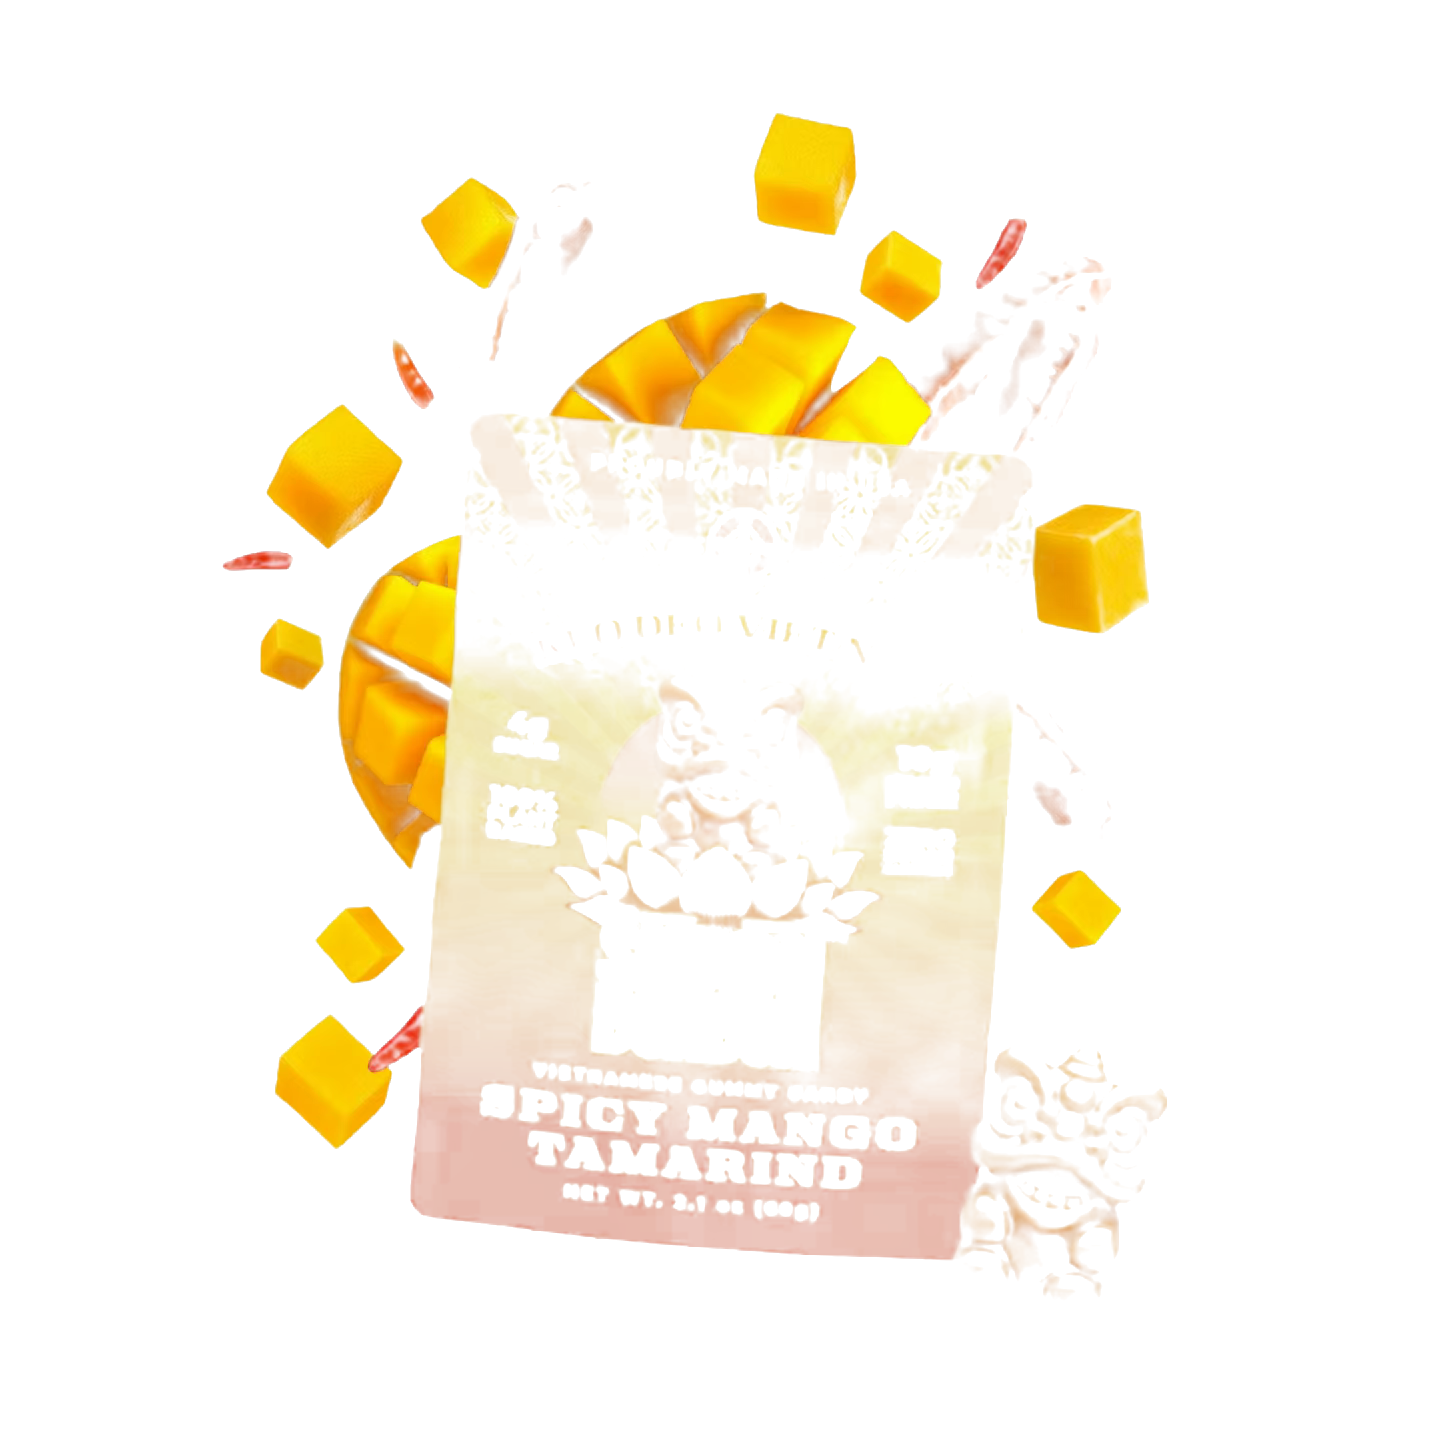
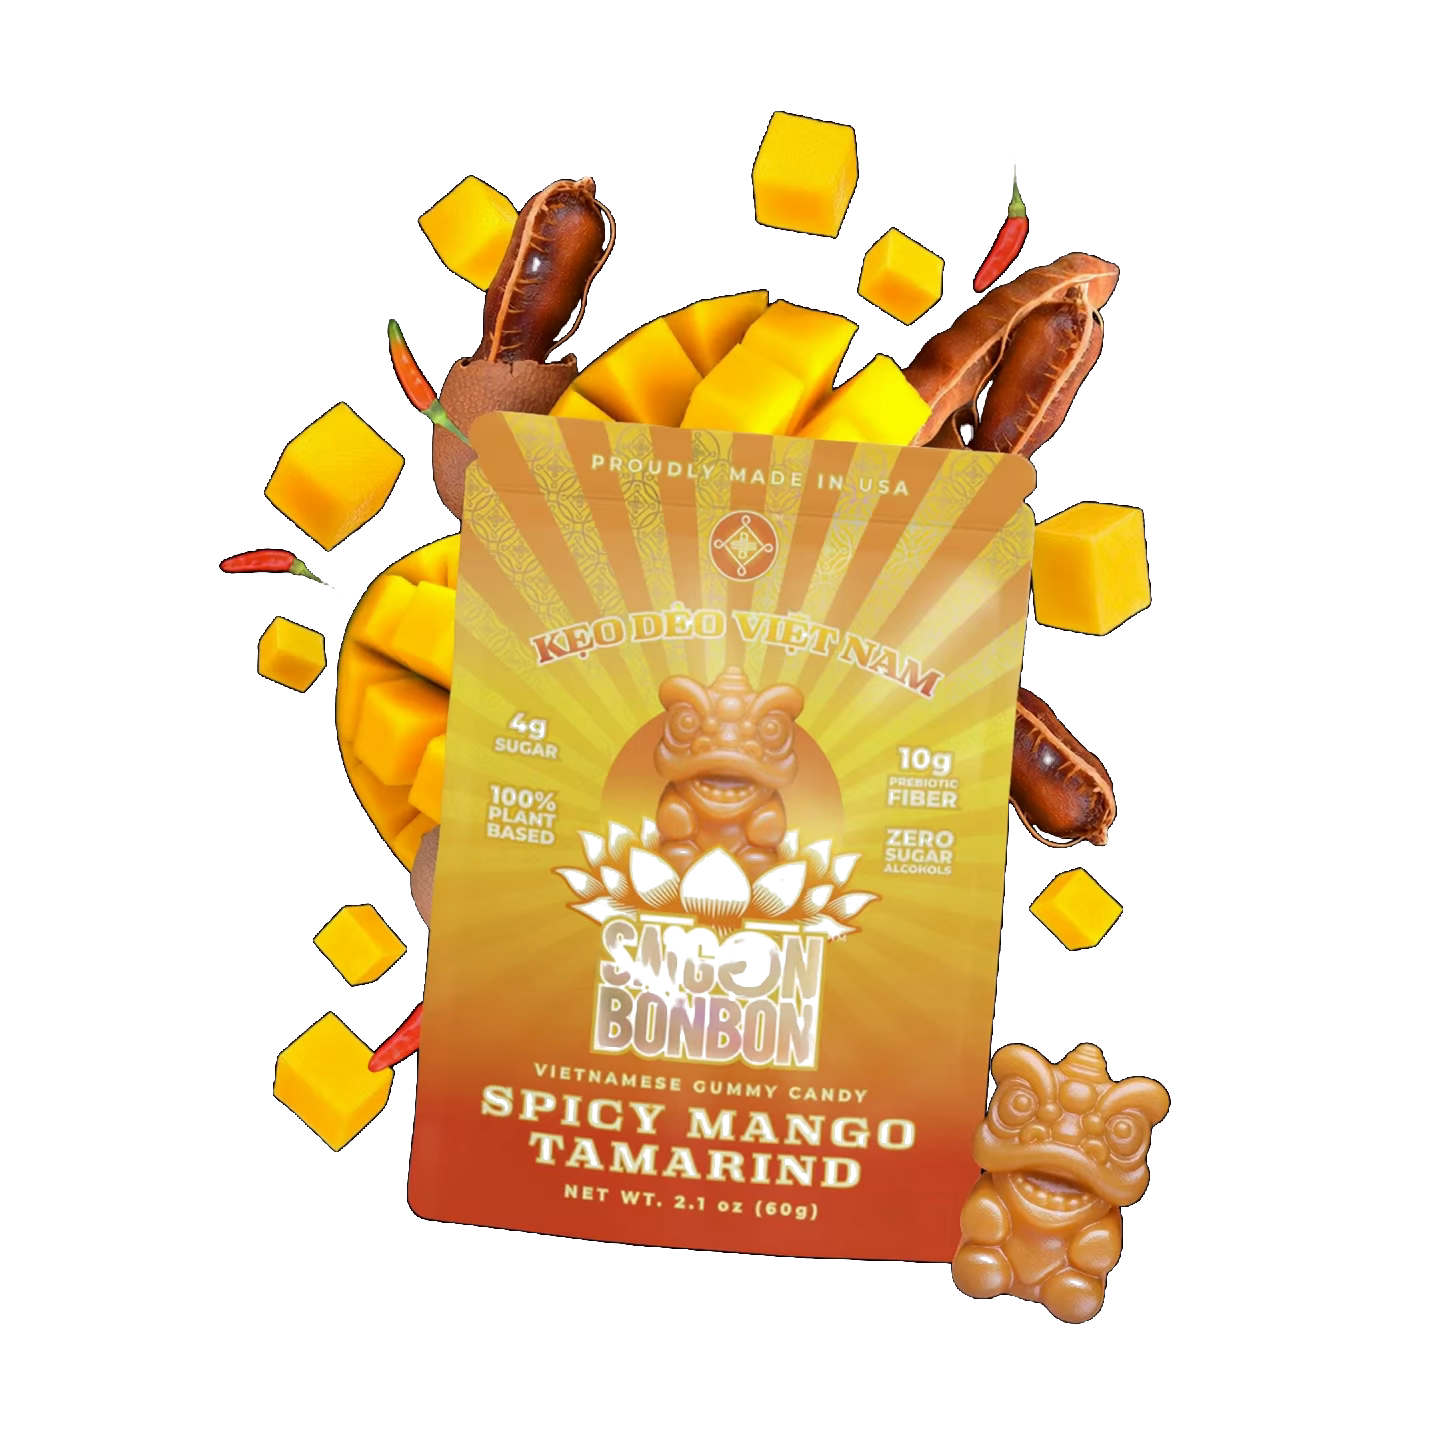
Fix faded poster PNGs — tighten chromakey thresholds to preserve dark pouch details
Re-extracted poster PNGs with much tighter chromakey (0.03/0.01 vs 0.15/0.1)
and lowered canvas chroma-key thresholds (10/25 vs 35/70) so dark areas of
the pouch are no longer made transparent.

diff --git a/src/components/ProductShowcase.tsx b/src/components/ProductShowcase.tsx
@@ -74,14 +74,14 @@ export default function ProductShowcase({ setBgColor }: { setBgColor: (color: st
     const imageData = ctx.getImageData(0, 0, size, size);
     const data = imageData.data;
 
-    // Make near-black pixels transparent
+    // Make near-black pixels transparent (tight threshold to preserve dark pouch details)
     for (let i = 0; i < data.length; i += 4) {
       const r = data[i], g = data[i + 1], b = data[i + 2];
-      if (r < 35 && g < 35 && b < 35) {
+      if (r < 10 && g < 10 && b < 10) {
         data[i + 3] = 0;
-      } else if (r < 70 && g < 70 && b < 70) {
-        // Soft edge: partially transparent for dark pixels near the pouch
-        data[i + 3] = Math.min(255, Math.max(r, g, b) * 3);
+      } else if (r < 25 && g < 25 && b < 25) {
+        // Soft edge: partially transparent for pixels near pure black
+        data[i + 3] = Math.min(255, Math.max(r, g, b) * 10);
       }
     }
 
